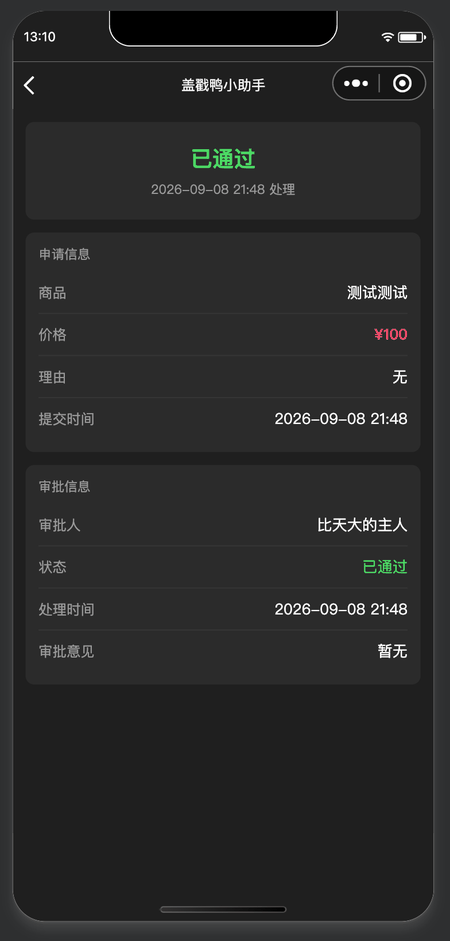
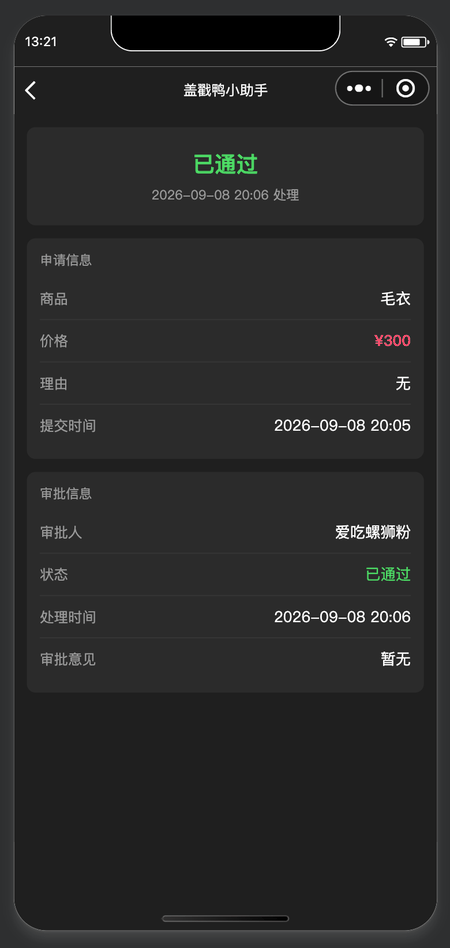
README: replace detail screenshot

diff --git a/README.md b/README.md
@@ -25,7 +25,7 @@
 | <img src="docs/screenshots/01-list.png" width="200"> | <img src="docs/screenshots/02-apply.png" width="200"> | <img src="docs/screenshots/03-detail.png" width="200"> | <img src="docs/screenshots/04-invite.png" width="200"> |
 | 按状态筛选，查看每条申请的审批结果 | 填写商品、价格、理由并选择审批人 | 状态卡片 + 申请信息 + 审批信息 | 生成邀请、管理已绑定的审批人 |
 
-> 截图来自微信开发者工具模拟器，已对审批人称呼做了打码处理。
+> 截图来自微信开发者工具模拟器，「审批人管理」页中的审批人昵称已打码。
 
 ## 技术栈
 
